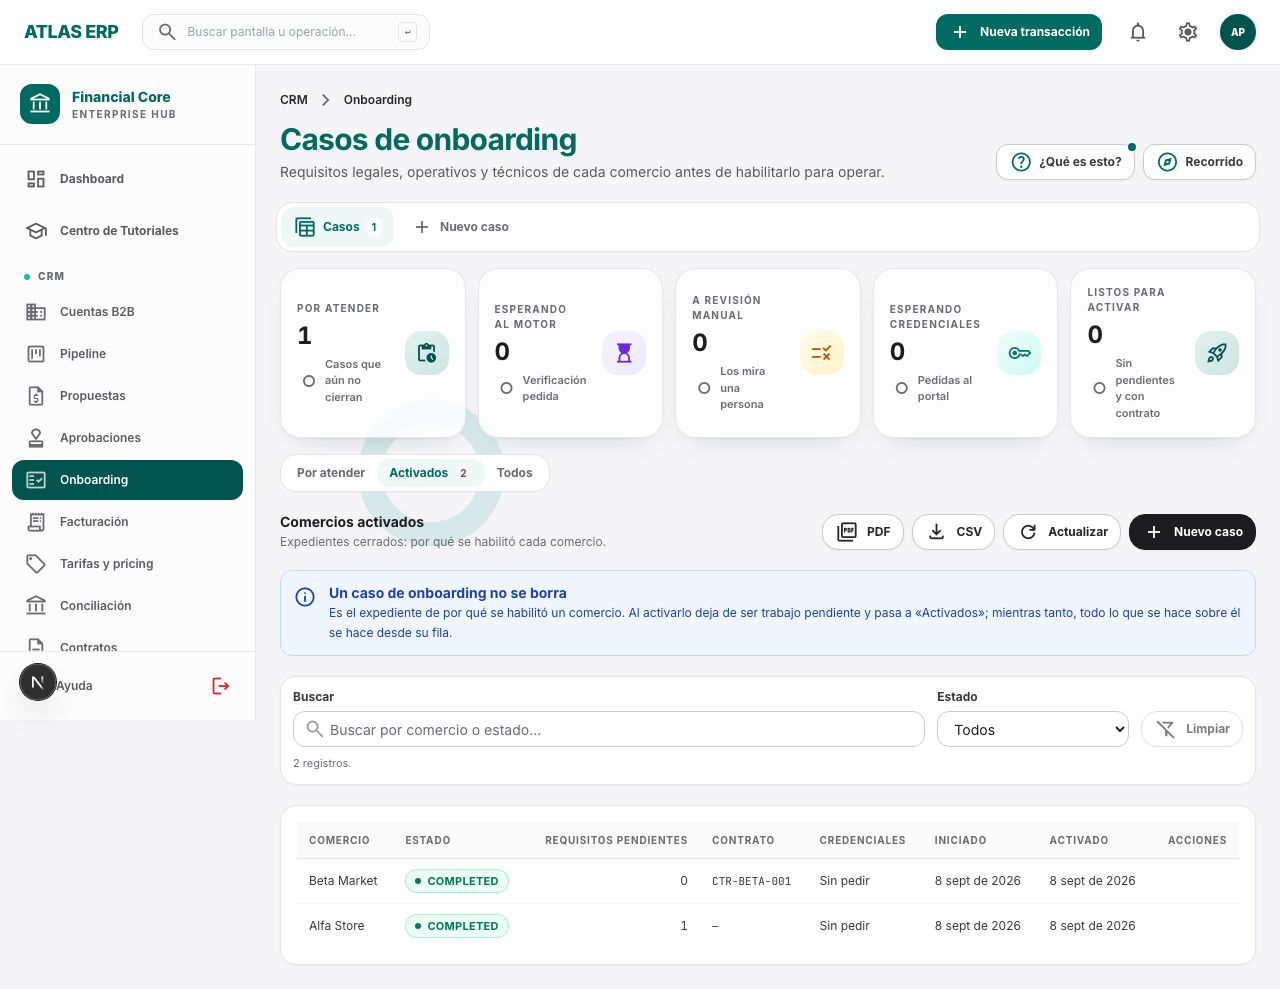
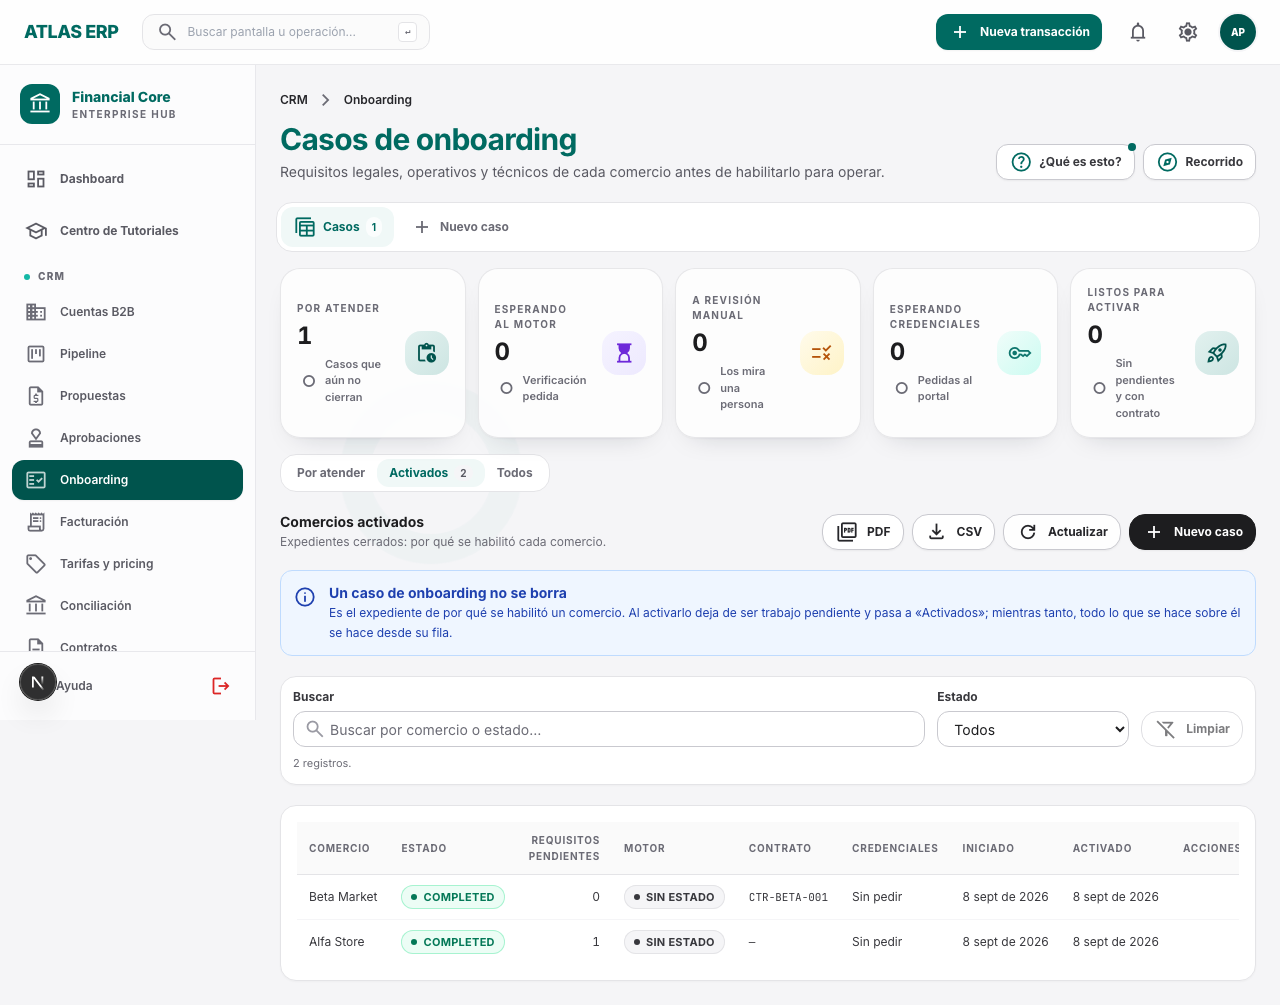
onboarding: pedir la verificación al Motor desde la fila, y activar sólo con su APROBADO
Acciones «Pedir verificación al Motor» (desde OPEN/RECHAZADO, con motivo opcional) y «Actualizar
verificación» (mientras se espera al Motor o a su revisión manual), columna «Motor» con el
desenlace, y «Activar comercio» sólo cuando el desenlace es APROBADO: la compuerta la aplica el
backend; aquí no se ofrece lo que va a rechazar. Al abrir la cola se sincronizan los casos que
esperan al Motor, igual que las credenciales.

diff --git a/app/operaciones/crm/onboarding/page.tsx b/app/operaciones/crm/onboarding/page.tsx
@@ -20,6 +20,10 @@ import { merchantCategoryOptions, riskTierOptions } from '@/lib/catalogs';
 import type { JsonObject, ResourceRow } from '@/services/types';
 
 const ESTADO_FINAL = 'COMPLETED';
+/** Desde qué estados se puede (volver a) pedir la verificación al Motor. Espejo del backend. */
+const PUEDE_PEDIR_VERIFICACION = new Set(['OPEN', 'IN_PROGRESS', 'BLOCKED', 'RECHAZADO']);
+/** Estados en los que el desenlace puede cambiar sin que el ERP haga nada: hay que ir a mirar. */
+const ESPERA_AL_MOTOR = new Set(['EN_VERIFICACION', 'REVISION_MANUAL']);
 
 const CUALQUIERA = { label: '— Cualquiera —', value: '' };
 
@@ -51,10 +55,15 @@ export default function OnboardingPage() {
    */
   const load = useCallback(async () => {
     const primera = await b2bService.listOnboardingCases({ scope, limit: 200 });
-    const esperando = (primera.items ?? []).filter((row) => Number((row.credentials as { pendientes?: number } | undefined)?.pendientes ?? 0) > 0);
-    if (esperando.length === 0) return primera;
-    const acuses = await Promise.allSettled(esperando.map((row) => b2bService.reconcileCaseIdentity(String(row.id ?? ''))));
-    const cambio = acuses.some((acuse) => acuse.status === 'fulfilled' && Array.isArray(acuse.value.resueltos) && acuse.value.resueltos.length > 0);
+    const filas = primera.items ?? [];
+    const esperandoCredenciales = filas.filter((row) => Number((row.credentials as { pendientes?: number } | undefined)?.pendientes ?? 0) > 0);
+    const esperandoMotor = filas.filter((row) => ESPERA_AL_MOTOR.has(String(row.status ?? '')));
+    if (esperandoCredenciales.length === 0 && esperandoMotor.length === 0) return primera;
+    const acuses = await Promise.allSettled([
+      ...esperandoCredenciales.map((row) => b2bService.reconcileCaseIdentity(String(row.id ?? ''))),
+      ...esperandoMotor.map((row) => b2bService.syncKybDecision(String(row.id ?? ''))),
+    ]);
+    const cambio = acuses.some((acuse) => acuse.status === 'fulfilled' && ((Array.isArray(acuse.value.resueltos) && acuse.value.resueltos.length > 0) || acuse.value.changed === true));
     return cambio ? b2bService.listOnboardingCases({ scope, limit: 200 }) : primera;
     // eslint-disable-next-line react-hooks/exhaustive-deps
   }, [scope, version]);
@@ -102,6 +111,7 @@ export default function OnboardingPage() {
                     { key: 'tradeName', label: 'Comercio' },
                     { key: 'status', label: 'Estado', kind: 'status' },
                     { key: 'pendingItems', label: 'Requisitos pendientes', align: 'right' },
+                    { key: 'decisionOutcome', label: 'Motor', kind: 'status' },
                     { key: 'contractNumber', label: 'Contrato', kind: 'mono' },
                     { key: 'credentialsSummary', label: 'Credenciales' },
                     { key: 'startedAt', label: 'Iniciado', kind: 'date' },
@@ -144,6 +154,30 @@ export default function OnboardingPage() {
                         ],
                         submit: (row, payload: JsonObject) => b2bService.updateChecklist(String(row.id ?? ''), payload),
                         submitLabel: 'Actualizar requisito',
+                      },
+                    },
+                    {
+                      key: 'verificar',
+                      label: 'Pedir verificación al Motor',
+                      icon: 'verified_user',
+                      enabled: (row) => PUEDE_PEDIR_VERIFICACION.has(String(row.status ?? '')),
+                      form: {
+                        title: (row) => `Verificación KYB de ${String(row.tradeName ?? 'este comercio')}`,
+                        description: 'El ERP pide; decide AtlasBackend con el artefacto PARTNER_KYB_REVIEW del Motor. Sin su APROBADO el comercio no se activa. Si el comercio no tiene expediente en Atlas, tiene que abrirlo desde su portal.',
+                        fields: [{ name: 'reason', label: 'Motivo (opcional)', type: 'textarea', optional: true, span: 2, placeholder: 'Por qué se pide ahora: alta comercial, reintento tras corregir…' }],
+                        submit: (row, payload: JsonObject) => b2bService.requestKybReview(String(row.id ?? ''), payload),
+                        submitLabel: 'Pedir verificación',
+                      },
+                    },
+                    {
+                      key: 'sincronizar',
+                      label: 'Actualizar verificación',
+                      icon: 'sync',
+                      enabled: (row) => ESPERA_AL_MOTOR.has(String(row.status ?? '')),
+                      run: async (row) => {
+                        const result = await b2bService.syncKybDecision(String(row.id ?? ''));
+                        summary.reload();
+                        return result;
                       },
                     },
                     {
@@ -242,7 +276,8 @@ export default function OnboardingPage() {
                       label: 'Activar comercio',
                       icon: 'rocket_launch',
                       tone: 'success',
-                      enabled: abierto,
+                      /* La compuerta dura la aplica el backend; aquí sólo no se ofrece lo que va a rechazar. */
+                      enabled: (row) => abierto(row) && String(row.decisionOutcome ?? '') === 'APROBADO',
                       run: async (row) => {
                         const result = await b2bService.activateOnboarding(String(row.id ?? ''), {});
                         summary.reload();
@@ -250,7 +285,7 @@ export default function OnboardingPage() {
                       },
                       confirm: {
                         title: 'Activar el comercio',
-                        message: 'El backend vuelve a comprobar los requisitos y el contrato activo: si falta algo, rechaza la activación. Al activarlo, el caso sale de la cola y pasa al historial.',
+                        message: 'El backend vuelve a comprobar el APROBADO del Motor, los requisitos y el contrato vigente: si falta algo, rechaza la activación. Al activarlo, el caso sale de la cola y pasa a «Activados».',
                         confirmLabel: 'Activar',
                       },
                     },

diff --git a/services/b2bService.ts b/services/b2bService.ts
@@ -216,6 +216,21 @@ export const b2bService = {
     const caseId = requireUuidPathParam(onboardingCaseId, 'el UUID del caso de onboarding');
     return apiRequest<ResourceRow>(`/b2b/onboarding/cases/${caseId}/mdr-rules`, { method: 'POST', body });
   },
+  /** El ERP PIDE la verificación KYB; decide AtlasBackend con el Motor. Único origen de esa decisión. */
+  requestKybReview(onboardingCaseId: string, body: JsonObject) {
+    const caseId = requireUuidPathParam(onboardingCaseId, 'el UUID del caso de onboarding');
+    return apiRequest<ResourceRow>(`/b2b/onboarding/cases/${caseId}/kyb-review`, { method: 'POST', body });
+  },
+  /** Trae el desenlace vigente (una revisión manual resuelta en el Motor, por ejemplo). */
+  syncKybDecision(onboardingCaseId: string) {
+    const caseId = requireUuidPathParam(onboardingCaseId, 'el UUID del caso de onboarding');
+    return apiRequest<ResourceRow>(`/b2b/onboarding/cases/${caseId}/kyb-review/sync`, { method: 'POST', body: {} });
+  },
+  /** Enlaza el caso con el expediente del comercio en Atlas (por cuenta o por NIT). */
+  linkPartnerProfile(onboardingCaseId: string) {
+    const caseId = requireUuidPathParam(onboardingCaseId, 'el UUID del caso de onboarding');
+    return apiRequest<ResourceRow>(`/b2b/onboarding/cases/${caseId}/partner-link`, { method: 'POST', body: {} });
+  },
   /** El acuse: pregunta a Atlas en qué quedaron las credenciales pedidas para el comercio del caso. */
   reconcileCaseIdentity(onboardingCaseId: string) {
     const caseId = requireUuidPathParam(onboardingCaseId, 'el UUID del caso de onboarding');

diff --git a/e2e/onboarding-cola.evidencia.spec.ts b/e2e/onboarding-cola.evidencia.spec.ts
@@ -89,7 +89,10 @@ test('todo se hace desde la fila: requisito, contrato, credenciales, activar', a
   await expect(fila.getByTitle(/mover un requisito/i)).toBeVisible();
   await expect(fila.getByTitle(/pactar contrato/i)).toBeVisible();
   await expect(fila.getByTitle(/pedir credenciales/i)).toBeVisible();
-  await expect(fila.getByTitle(/activar comercio/i)).toBeVisible();
+  // Compuerta dura: sin APROBADO del Motor no se ofrece activar; se ofrece pedir la verificación.
+  await expect(fila.getByTitle(/pedir verificación al motor/i)).toBeVisible();
+  await expect(fila.getByTitle(/activar comercio/i)).toHaveCount(0);
+  await expect(page.locator('[data-tutorial-id="crud-tabla"] th', { hasText: /^motor$/i })).toBeVisible();
   // El acuse de credenciales sólo se ofrece cuando hay una petición sin resolver.
   await expect(page.locator('[data-tutorial-id="crud-tabla"] th', { hasText: /credenciales/i })).toBeVisible();
   await expect(fila.getByText(/sin pedir/i)).toBeVisible();
